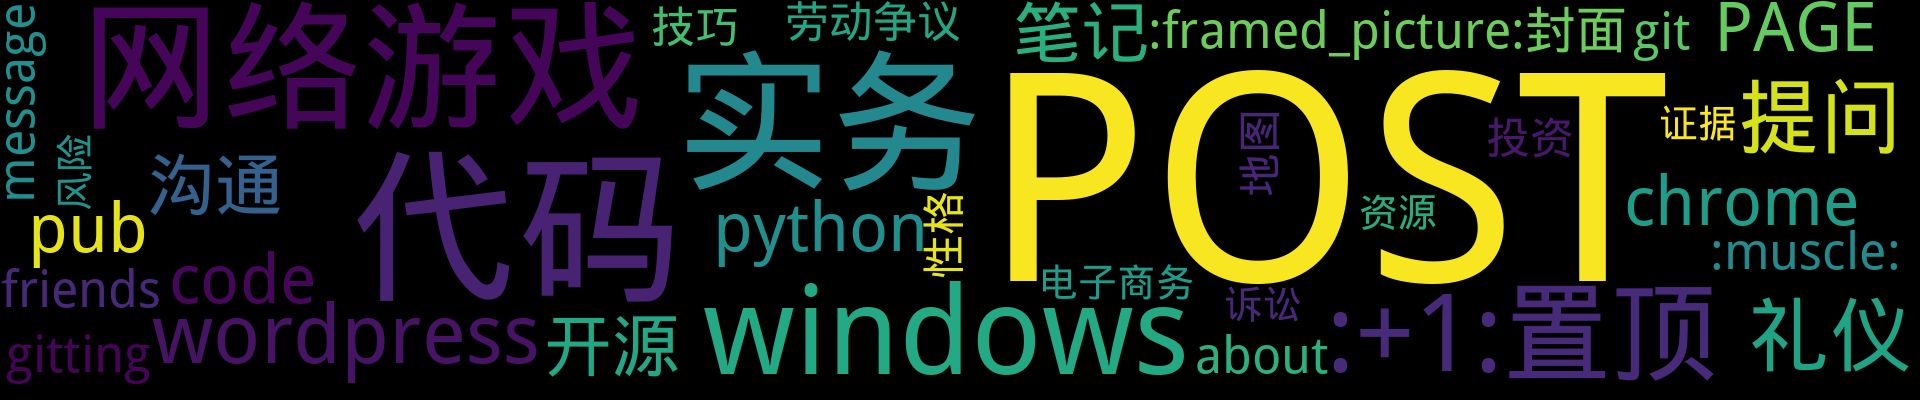
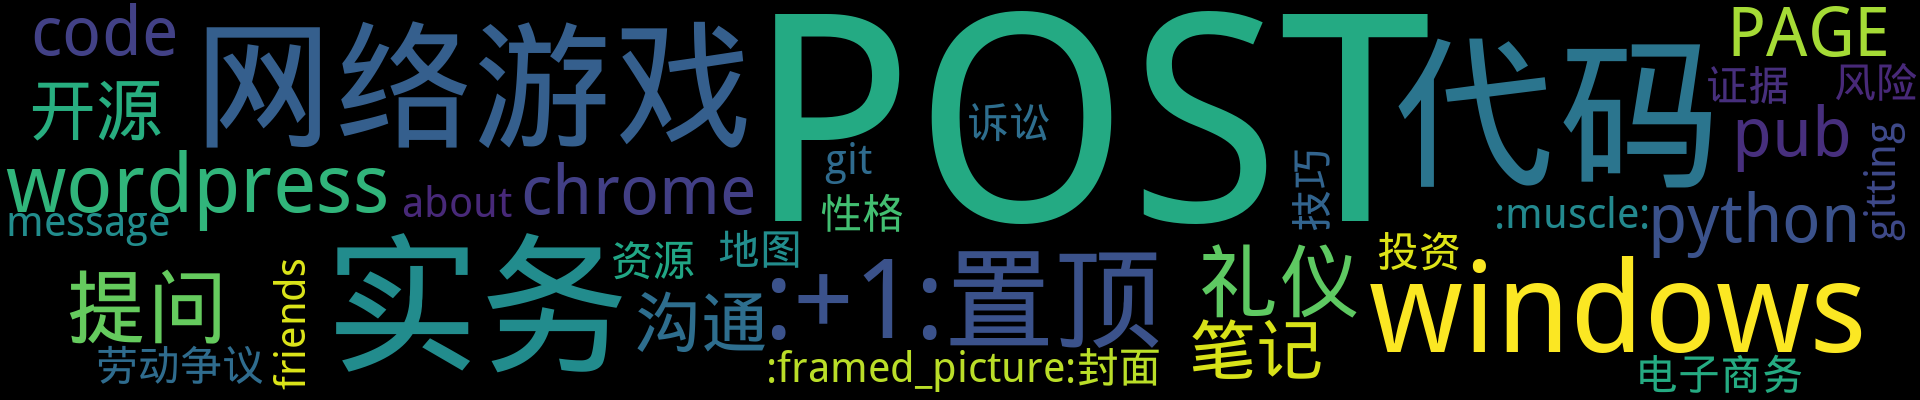
Update from Github Action

diff --git a/README.md b/README.md
@@ -19,7 +19,7 @@
 <p align='center'>
     <img src="https://badgen.net/badge/labels/40"/>
     <img src="https://badgen.net/github/issues/fydy/elaw"/>
-    <img src="https://badgen.net/badge/last-commit/2021-07-23 05:26:03"/>
+    <img src="https://badgen.net/badge/last-commit/2022-01-06 08:56:29"/>
     <img src="https://badgen.net/github/forks/fydy/elaw"/>
     <img src="https://badgen.net/github/stars/fydy/elaw"/>
     <img src="https://badgen.net/github/watchers/fydy/elaw"/>
@@ -54,6 +54,19 @@ is
 - [简单生活](https://github.com/fydy/elaw/issues/36)  <sup>0 :speech_balloon:</sup>  	 
 - [提问的智慧](https://github.com/fydy/elaw/issues/19)  <sup>0 :speech_balloon:</sup>  	 
 ## 最新 :new: 
+
+#### [移动硬盘参数错误解决教程](https://github.com/fydy/elaw/issues/66) <sup>0 :speech_balloon:</sup> 	 2022-01-06 08:55:56
+
+:label: : [POST](https://github.com/fydy/isblog/labels/POST)
+
+## 方法一、修复逻辑坏区
+1、点击左下角的开始-运行，或者使用快捷键WIN+R键打开运行窗口，然后输入cmd打开dos窗口。
+![image](https://user-images.githubusercontent.com/39726855/148356242-ad615b83-0d4b-
+
+[更多>>>](https://github.com/fydy/elaw/issues/66)
+
+---
+
 
 #### [How to make your own weighted knot charging cable with FixIts](https://github.com/fydy/elaw/issues/65) <sup>0 :speech_balloon:</sup> 	 2021-05-21 06:08:40
 
@@ -105,21 +118,6 @@ is
 　　所谓的马甲包买量（马甲包也有切支付的功能，因为不是本文的研究重点，略过不表），是指游戏公司将一款网络游戏，通过改变游戏名称、故事情节、任务内容、人物性格、角色特征、互动功能等内容，重
 
 [更多>>>](https://github.com/fydy/elaw/issues/62)
-
----
-
-
-#### [游戏合规系列（二）：游戏公测无需版号？](https://github.com/fydy/elaw/issues/61) <sup>0 :speech_balloon:</sup> 	 2020-10-13 06:05:05
-
-:label: : [网络游戏](https://github.com/fydy/isblog/labels/%E7%BD%91%E7%BB%9C%E6%B8%B8%E6%88%8F)
-
-　　一、行业争论：
-
-　　游戏公测无须版号？
-
-　　根据此前文章[《游戏合规系列：游戏无版号运营的法律风险》](https://github.com/fydy/elaw/issues/60)，我们知道网络游戏无版号运营，网络游戏公司轻则被科以罚款，重则有牢狱之灾。特别在近年监管政策骤然缩紧的
-
-[更多>>>](https://github.com/fydy/elaw/issues/61)
 
 ---
 
@@ -176,71 +174,6 @@ is
 <details>
 <summary>:running_man:	<sup>0:newspaper:</sup></summary>
 
-
-
-</details>
-
-<details>
-<summary>PAGE	<sup>2:newspaper:</sup></summary>
-
-- [网上邻居](https://github.com/fydy/elaw/issues/30)  <sup>0 :speech_balloon:</sup>  	 
-- [关于我](https://github.com/fydy/elaw/issues/4)  <sup>0 :speech_balloon:</sup>  	 
-
-
-</details>
-
-<details>
-<summary>POST	<sup>49:newspaper:</sup></summary>
-
-- [How to make your own weighted knot charging cable with FixIts](https://github.com/fydy/elaw/issues/65)  <sup>0 :speech_balloon:</sup>  	 
-- [弹出U盘或者移动硬盘时，提示：“该设备正在使用中，请关闭可能使用该设备的所有程序或窗口” 解决办法](https://github.com/fydy/elaw/issues/64)  <sup>0 :speech_balloon:</sup>  	 
-- [家庭教育对孩子成长的影响](https://github.com/fydy/elaw/issues/58)  <sup>0 :speech_balloon:</sup>  	 
-- [民事诉讼庭审程序](https://github.com/fydy/elaw/issues/57)  <sup>0 :speech_balloon:</sup>  	 
-- [互联网电子数据证据举证、认证规程(试行)](https://github.com/fydy/elaw/issues/56)  <sup>0 :speech_balloon:</sup>  	 
-- [将DOC、RTF格式文件批量转为TXT格式文件](https://github.com/fydy/elaw/issues/54)  <sup>0 :speech_balloon:</sup>  	 
-- [pip超时的问题](https://github.com/fydy/elaw/issues/53)  <sup>0 :speech_balloon:</sup>  	 
-- [linux目录权限只能写入不能删除](https://github.com/fydy/elaw/issues/52)  <sup>0 :speech_balloon:</sup>  	 
-- [民事诉讼流程](https://github.com/fydy/elaw/issues/51)  <sup>0 :speech_balloon:</sup>  	 
-- [诉讼财产保全](https://github.com/fydy/elaw/issues/50)  <sup>0 :speech_balloon:</sup>  	 
-- [win10 ](https://github.com/fydy/elaw/issues/49)  <sup>0 :speech_balloon:</sup>  	 
-- [Office2019 VOL下载、安装与激活](https://github.com/fydy/elaw/issues/48)  <sup>3 :speech_balloon:</sup>  	 
-- [WPS Office 2019](https://github.com/fydy/elaw/issues/47)  <sup>0 :speech_balloon:</sup>  	 
-- [linux服务器下载google drive大文件](https://github.com/fydy/elaw/issues/46)  <sup>4 :speech_balloon:</sup>  	 
-- [使用fiddler实现手机抓包](https://github.com/fydy/elaw/issues/45)  <sup>0 :speech_balloon:</sup>  	 
-- [在 CentOS 7 下安装配置 Shadowsocks](https://github.com/fydy/elaw/issues/38)  <sup>1 :speech_balloon:</sup>  	 
-- [如何制造抗辩争点-转自民法学人](https://github.com/fydy/elaw/issues/37)  <sup>0 :speech_balloon:</sup>  	 
-- [简单生活](https://github.com/fydy/elaw/issues/36)  <sup>0 :speech_balloon:</sup>  	 
-- [电影经典励志金句](https://github.com/fydy/elaw/issues/35)  <sup>0 :speech_balloon:</sup>  	 
-- [图书馆数字资源校外使用账号](https://github.com/fydy/elaw/issues/34)  <sup>0 :speech_balloon:</sup>  	 
-- [自动为WordPress文章添加特色图像](https://github.com/fydy/elaw/issues/33)  <sup>0 :speech_balloon:</sup>  	 
-- [离婚析产 附有关规定](https://github.com/fydy/elaw/issues/32)  <sup>0 :speech_balloon:</sup>  	 
-- [律师职业进阶（网络转载文章）](https://github.com/fydy/elaw/issues/31)  <sup>0 :speech_balloon:</sup>  	 
-- [Google Chrome 网页长截图方法](https://github.com/fydy/elaw/issues/29)  <sup>1 :speech_balloon:</sup>  	 
-- [ 商品房预约合同中不可归责于双方事由之实务认定](https://github.com/fydy/elaw/issues/28)  <sup>1 :speech_balloon:</sup>  	 
-- [Bitnami Shell](https://github.com/fydy/elaw/issues/27)  <sup>1 :speech_balloon:</sup>  	 
-- [财务管理](https://github.com/fydy/elaw/issues/26)  <sup>0 :speech_balloon:</sup>  	 
-- [行为上瘾](https://github.com/fydy/elaw/issues/25)  <sup>1 :speech_balloon:</sup>  	 
-- [无需插件让WordPress网站调用高德地图的方法](https://github.com/fydy/elaw/issues/24)  <sup>0 :speech_balloon:</sup>  	 
-- [Wordfence 安全插件专业版破解教程](https://github.com/fydy/elaw/issues/23)  <sup>0 :speech_balloon:</sup>  	 
-- [解决windows系统80端口被占用问题](https://github.com/fydy/elaw/issues/22)  <sup>0 :speech_balloon:</sup>  	 
-- [Chrome安卓版 优化设置教程（chrome://flags）](https://github.com/fydy/elaw/issues/20)  <sup>0 :speech_balloon:</sup>  	 
-- [提问的智慧](https://github.com/fydy/elaw/issues/19)  <sup>0 :speech_balloon:</sup>  	 
-- [Git常用命令总结](https://github.com/fydy/elaw/issues/17)  <sup>0 :speech_balloon:</sup>  	 
-- [wordpress常用主题、插件优化](https://github.com/fydy/elaw/issues/16)  <sup>0 :speech_balloon:</sup>  	 
-- [国内外优秀前端 CDN，Google Fonts 国内镜像](https://github.com/fydy/elaw/issues/15)  <sup>0 :speech_balloon:</sup>  	 
-- [知乎读书-如何有效提问](https://github.com/fydy/elaw/issues/14)  <sup>0 :speech_balloon:</sup>  	 
-- [课程笔记](https://github.com/fydy/elaw/issues/13)  <sup>0 :speech_balloon:</sup>  	 
-- [《学会提问》，让你拥有深度思考的能力](https://github.com/fydy/elaw/issues/12)  <sup>0 :speech_balloon:</sup>  	 
-- [高院法官谈：律师如何举证、质证？](https://github.com/fydy/elaw/issues/11)  <sup>0 :speech_balloon:</sup>  	 
-- [律师的礼仪（二）](https://github.com/fydy/elaw/issues/10)  <sup>0 :speech_balloon:</sup>  	 
-- [内向和胆小是个伪命题！](https://github.com/fydy/elaw/issues/9)  <sup>0 :speech_balloon:</sup>  	 
-- [ 律师的礼仪（一）](https://github.com/fydy/elaw/issues/8)  <sup>0 :speech_balloon:</sup>  	 
-- [劳动争议案件实务](https://github.com/fydy/elaw/issues/7)  <sup>1 :speech_balloon:</sup>  	 
-- [重点融资条款释义](https://github.com/fydy/elaw/issues/6)  <sup>1 :speech_balloon:</sup>  	 
-- [民事诉讼实务技巧](https://github.com/fydy/elaw/issues/5)  <sup>0 :speech_balloon:</sup>  	 
-- [用Github Issues搭建博客](https://github.com/fydy/elaw/issues/3)  <sup>0 :speech_balloon:</sup>  	 
-- [公司常见的劳动用工法律风险](https://github.com/fydy/elaw/issues/2)  <sup>1 :speech_balloon:</sup>  	 
-- [电商平台商业模式研究-以拼多多为例【网络转载】](https://github.com/fydy/elaw/issues/1)  <sup>0 :speech_balloon:</sup>  	 
 
 
 </details>
@@ -306,6 +239,72 @@ is
 <summary>message	<sup>1:newspaper:</sup></summary>
 
 - [关于我](https://github.com/fydy/elaw/issues/4)  <sup>0 :speech_balloon:</sup>  	 
+
+
+</details>
+
+<details>
+<summary>PAGE	<sup>2:newspaper:</sup></summary>
+
+- [网上邻居](https://github.com/fydy/elaw/issues/30)  <sup>0 :speech_balloon:</sup>  	 
+- [关于我](https://github.com/fydy/elaw/issues/4)  <sup>0 :speech_balloon:</sup>  	 
+
+
+</details>
+
+<details>
+<summary>POST	<sup>50:newspaper:</sup></summary>
+
+- [移动硬盘参数错误解决教程](https://github.com/fydy/elaw/issues/66)  <sup>0 :speech_balloon:</sup>  	 
+- [How to make your own weighted knot charging cable with FixIts](https://github.com/fydy/elaw/issues/65)  <sup>0 :speech_balloon:</sup>  	 
+- [弹出U盘或者移动硬盘时，提示：“该设备正在使用中，请关闭可能使用该设备的所有程序或窗口” 解决办法](https://github.com/fydy/elaw/issues/64)  <sup>0 :speech_balloon:</sup>  	 
+- [家庭教育对孩子成长的影响](https://github.com/fydy/elaw/issues/58)  <sup>0 :speech_balloon:</sup>  	 
+- [民事诉讼庭审程序](https://github.com/fydy/elaw/issues/57)  <sup>0 :speech_balloon:</sup>  	 
+- [互联网电子数据证据举证、认证规程(试行)](https://github.com/fydy/elaw/issues/56)  <sup>0 :speech_balloon:</sup>  	 
+- [将DOC、RTF格式文件批量转为TXT格式文件](https://github.com/fydy/elaw/issues/54)  <sup>0 :speech_balloon:</sup>  	 
+- [pip超时的问题](https://github.com/fydy/elaw/issues/53)  <sup>0 :speech_balloon:</sup>  	 
+- [linux目录权限只能写入不能删除](https://github.com/fydy/elaw/issues/52)  <sup>0 :speech_balloon:</sup>  	 
+- [民事诉讼流程](https://github.com/fydy/elaw/issues/51)  <sup>0 :speech_balloon:</sup>  	 
+- [诉讼财产保全](https://github.com/fydy/elaw/issues/50)  <sup>0 :speech_balloon:</sup>  	 
+- [win10 ](https://github.com/fydy/elaw/issues/49)  <sup>0 :speech_balloon:</sup>  	 
+- [Office2019 VOL下载、安装与激活](https://github.com/fydy/elaw/issues/48)  <sup>3 :speech_balloon:</sup>  	 
+- [WPS Office 2019](https://github.com/fydy/elaw/issues/47)  <sup>0 :speech_balloon:</sup>  	 
+- [linux服务器下载google drive大文件](https://github.com/fydy/elaw/issues/46)  <sup>4 :speech_balloon:</sup>  	 
+- [使用fiddler实现手机抓包](https://github.com/fydy/elaw/issues/45)  <sup>0 :speech_balloon:</sup>  	 
+- [在 CentOS 7 下安装配置 Shadowsocks](https://github.com/fydy/elaw/issues/38)  <sup>1 :speech_balloon:</sup>  	 
+- [如何制造抗辩争点-转自民法学人](https://github.com/fydy/elaw/issues/37)  <sup>0 :speech_balloon:</sup>  	 
+- [简单生活](https://github.com/fydy/elaw/issues/36)  <sup>0 :speech_balloon:</sup>  	 
+- [电影经典励志金句](https://github.com/fydy/elaw/issues/35)  <sup>0 :speech_balloon:</sup>  	 
+- [图书馆数字资源校外使用账号](https://github.com/fydy/elaw/issues/34)  <sup>0 :speech_balloon:</sup>  	 
+- [自动为WordPress文章添加特色图像](https://github.com/fydy/elaw/issues/33)  <sup>0 :speech_balloon:</sup>  	 
+- [离婚析产 附有关规定](https://github.com/fydy/elaw/issues/32)  <sup>0 :speech_balloon:</sup>  	 
+- [律师职业进阶（网络转载文章）](https://github.com/fydy/elaw/issues/31)  <sup>0 :speech_balloon:</sup>  	 
+- [Google Chrome 网页长截图方法](https://github.com/fydy/elaw/issues/29)  <sup>1 :speech_balloon:</sup>  	 
+- [ 商品房预约合同中不可归责于双方事由之实务认定](https://github.com/fydy/elaw/issues/28)  <sup>1 :speech_balloon:</sup>  	 
+- [Bitnami Shell](https://github.com/fydy/elaw/issues/27)  <sup>1 :speech_balloon:</sup>  	 
+- [财务管理](https://github.com/fydy/elaw/issues/26)  <sup>0 :speech_balloon:</sup>  	 
+- [行为上瘾](https://github.com/fydy/elaw/issues/25)  <sup>1 :speech_balloon:</sup>  	 
+- [无需插件让WordPress网站调用高德地图的方法](https://github.com/fydy/elaw/issues/24)  <sup>0 :speech_balloon:</sup>  	 
+- [Wordfence 安全插件专业版破解教程](https://github.com/fydy/elaw/issues/23)  <sup>0 :speech_balloon:</sup>  	 
+- [解决windows系统80端口被占用问题](https://github.com/fydy/elaw/issues/22)  <sup>0 :speech_balloon:</sup>  	 
+- [Chrome安卓版 优化设置教程（chrome://flags）](https://github.com/fydy/elaw/issues/20)  <sup>0 :speech_balloon:</sup>  	 
+- [提问的智慧](https://github.com/fydy/elaw/issues/19)  <sup>0 :speech_balloon:</sup>  	 
+- [Git常用命令总结](https://github.com/fydy/elaw/issues/17)  <sup>0 :speech_balloon:</sup>  	 
+- [wordpress常用主题、插件优化](https://github.com/fydy/elaw/issues/16)  <sup>0 :speech_balloon:</sup>  	 
+- [国内外优秀前端 CDN，Google Fonts 国内镜像](https://github.com/fydy/elaw/issues/15)  <sup>0 :speech_balloon:</sup>  	 
+- [知乎读书-如何有效提问](https://github.com/fydy/elaw/issues/14)  <sup>0 :speech_balloon:</sup>  	 
+- [课程笔记](https://github.com/fydy/elaw/issues/13)  <sup>0 :speech_balloon:</sup>  	 
+- [《学会提问》，让你拥有深度思考的能力](https://github.com/fydy/elaw/issues/12)  <sup>0 :speech_balloon:</sup>  	 
+- [高院法官谈：律师如何举证、质证？](https://github.com/fydy/elaw/issues/11)  <sup>0 :speech_balloon:</sup>  	 
+- [律师的礼仪（二）](https://github.com/fydy/elaw/issues/10)  <sup>0 :speech_balloon:</sup>  	 
+- [内向和胆小是个伪命题！](https://github.com/fydy/elaw/issues/9)  <sup>0 :speech_balloon:</sup>  	 
+- [ 律师的礼仪（一）](https://github.com/fydy/elaw/issues/8)  <sup>0 :speech_balloon:</sup>  	 
+- [劳动争议案件实务](https://github.com/fydy/elaw/issues/7)  <sup>1 :speech_balloon:</sup>  	 
+- [重点融资条款释义](https://github.com/fydy/elaw/issues/6)  <sup>1 :speech_balloon:</sup>  	 
+- [民事诉讼实务技巧](https://github.com/fydy/elaw/issues/5)  <sup>0 :speech_balloon:</sup>  	 
+- [用Github Issues搭建博客](https://github.com/fydy/elaw/issues/3)  <sup>0 :speech_balloon:</sup>  	 
+- [公司常见的劳动用工法律风险](https://github.com/fydy/elaw/issues/2)  <sup>1 :speech_balloon:</sup>  	 
+- [电商平台商业模式研究-以拼多多为例【网络转载】](https://github.com/fydy/elaw/issues/1)  <sup>0 :speech_balloon:</sup>  	 
 
 
 </details>
